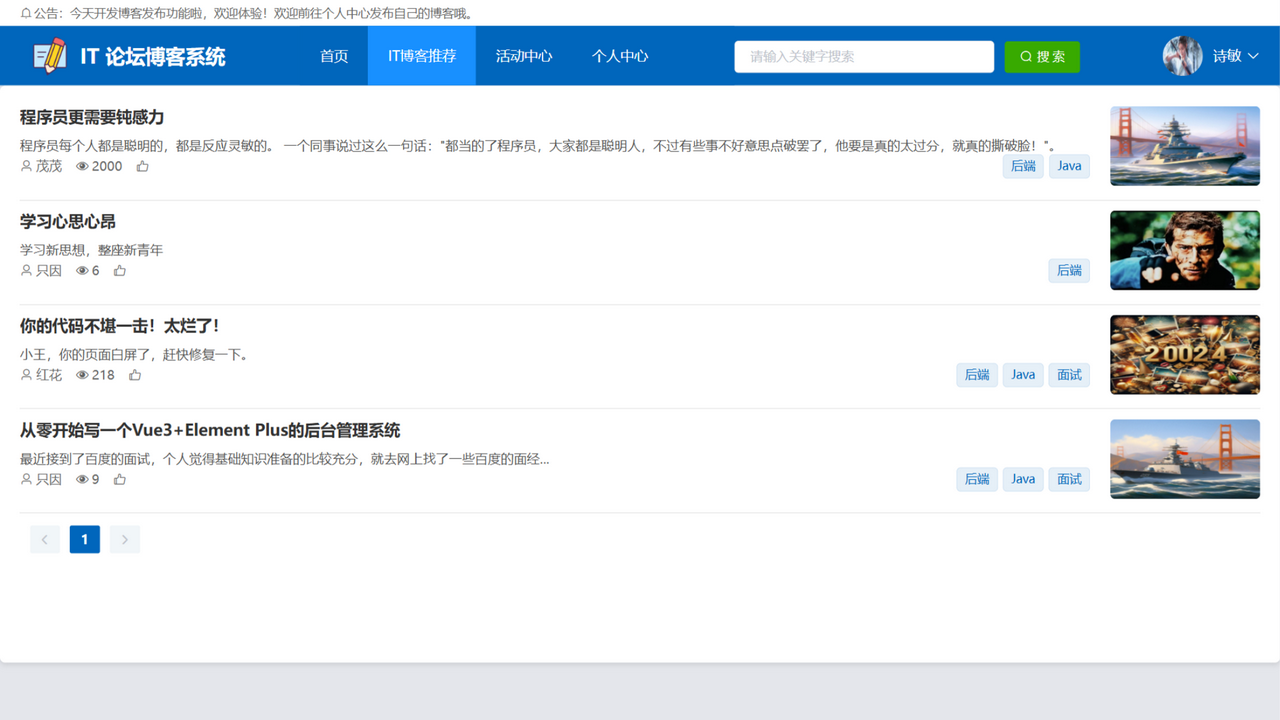
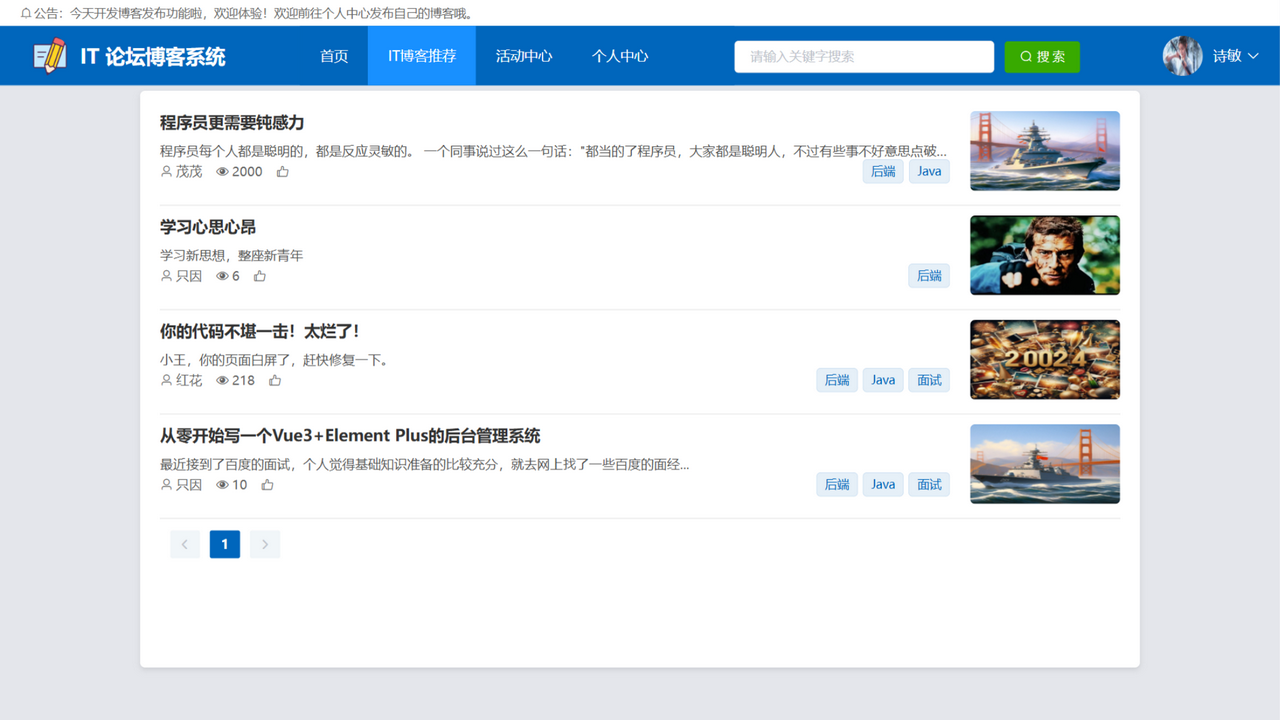
fix: 推荐页博客列表居中显示，与首页风格一致
- Recommend.vue 外层套用与首页相同的 .main-content 居中容器，并限制最大宽度 1000px，替代原来的全屏拉伸布局
- 同步更新 README 中的推荐页截图

Changed region(s): [[0.0, 0.1222, 1.0, 0.9472], [0.1562, 0.7333, 0.1875, 0.7944]]

diff --git a/vue/src/views/front/Recommend.vue b/vue/src/views/front/Recommend.vue
@@ -1,4 +1,5 @@
 <template>
+  <div class="main-content" style="max-width: 1000px">
   <div class="card" style="min-height: 80vh">
 
     <div v-if="loading" style="text-align: center; padding: 30px;">
@@ -62,6 +63,7 @@
       </el-pagination>
     </div>
 
+    </div>
   </div>
 </template>
 
